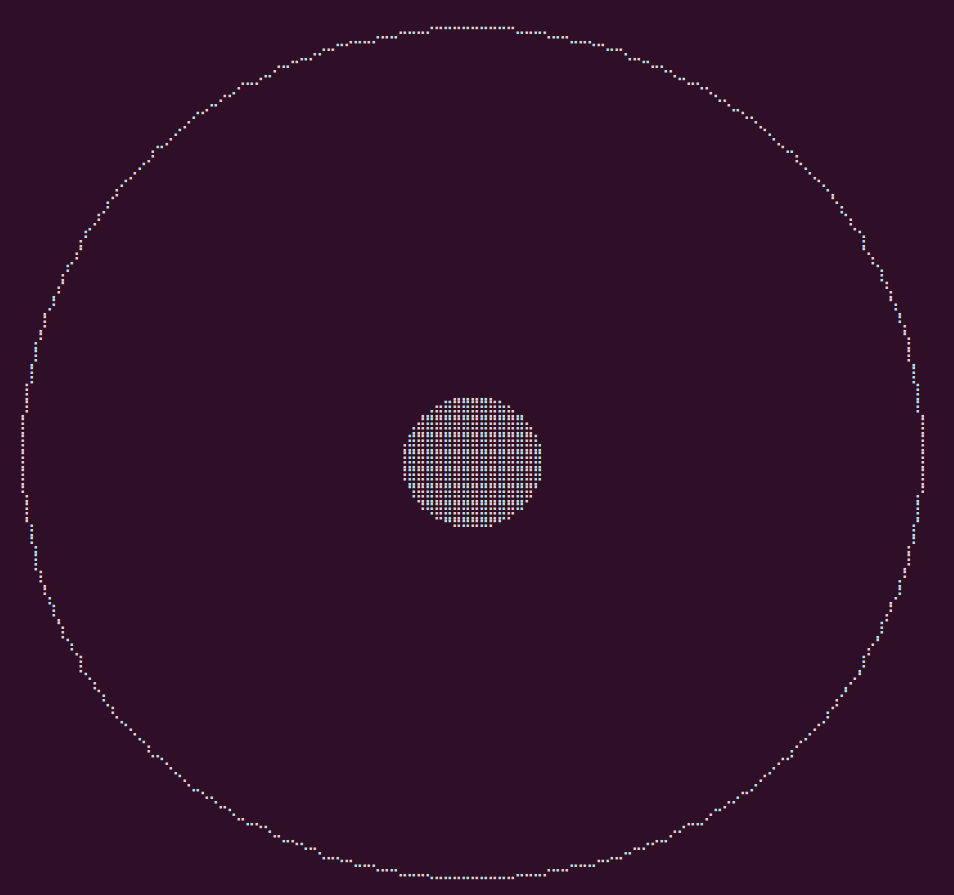
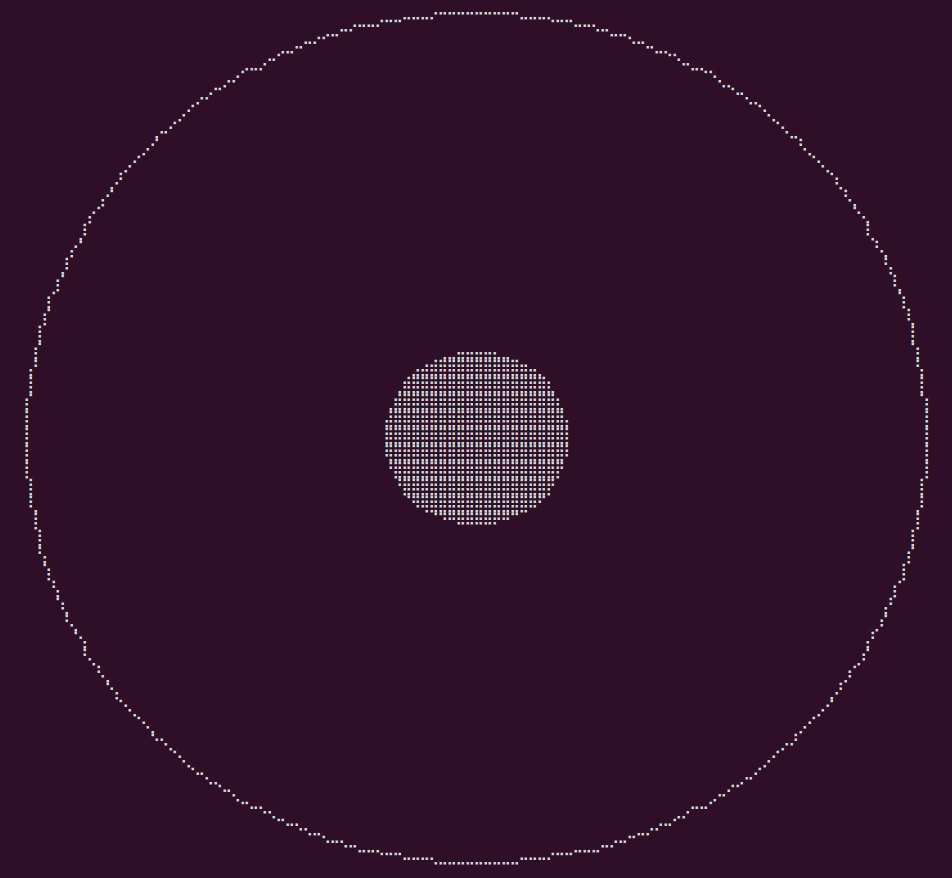
:wrench: Increase default size

diff --git a/lib/index.js b/lib/index.js
@@ -15,7 +15,7 @@ class TerminalJoystick extends EventEmitter {
     }
     // Setup sizes
     const containerDiameter = (opts.container || {}).size || 100;
-    const joystickDiameter  = (opts.joystick || {}).size || 15;
+    const joystickDiameter  = (opts.joystick || {}).size || 20;
     const containerRadius   = containerDiameter / 2;
 
     // Setup container
